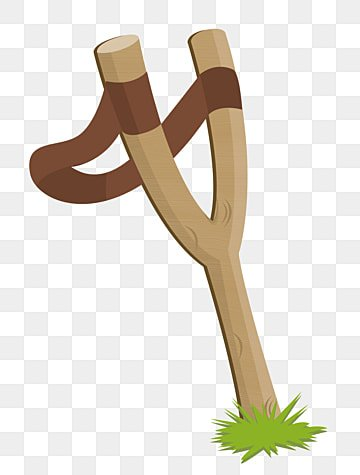
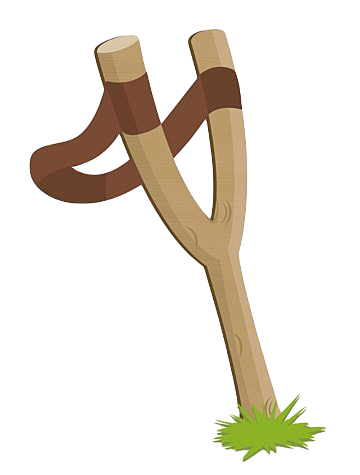
Angry birds

diff --git a/trial/core/src/main/java/com/Desktop/trial/MediumLevelScreen.java b/trial/core/src/main/java/com/Desktop/trial/MediumLevelScreen.java
@@ -82,7 +82,7 @@ public class MediumLevelScreen implements Screen {
         game.getFont().draw(spriteBatch, "1", 710, 423);
         game.getFont().draw(spriteBatch, "1", 770, 423);
 
-        spriteBatch.draw(catapultTexture, 110, 75, 60, 60);
+        spriteBatch.draw(catapultTexture, 80, 75, 80, 80);
         spriteBatch.draw(redBirdTexture, 50, 75, 30, 30);
 
         // Structure Drawing
